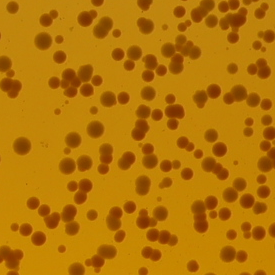
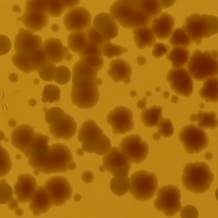
Four plates, easy to hard, same order for everyone, each a region sized for a 15-minute test
1 study_04 easy synthetic (40 colonies); 2 study_05 medium real (Double_P2V2_6Days_Low_RepA window);
3 study_03 hard synthetic (a dense region: about 80 colonies, groups of 2 to 4, three masses of 5 to
7); 4 study_06 hard real (Wild_Type_P2V2_6Days_Low_RepA window).

Claude-Session: https://claude.ai/code/session_01BQ2s7TtVwW3L99hJpFSM7p

diff --git a/index.html b/index.html
@@ -28,7 +28,7 @@
       <h1>Before you start</h1>
       <p class="lead">This study tests whether different people measure the same colonies the same way with
         QuantaColony. It starts with a guided practice plate that trains you until your outlines pass a check;
-        the three study plates after it take about 15 minutes. Your
+        the four study plates after it take about 15 minutes. Your
         measurements, how long each step took and these answers are sent automatically at the end.</p>
       <label class="field" for="name">Your name</label>
       <input id="name" type="text" autocomplete="off" placeholder="Any name that tells you apart from other participants">
@@ -154,11 +154,11 @@
   <section id="screen-review" class="page hidden">
     <div class="column wide">
       <h1>Check your plates</h1>
-      <p class="lead">These are your three plates as you finished them. Look at each one: every colony should have its
+      <p class="lead">These are your four plates as you finished them. Look at each one: every colony should have its
         own outline on its outer edge, with no outlines on anything else. Click a plate to see it larger. To change
         a plate, press Change this plate, correct it, then press Finish image to come back here.</p>
       <div id="review-grid"></div>
-      <label class="confirm"><input type="checkbox" id="review-ok"><span>I have checked all three plates, and I am satisfied
+      <label class="confirm"><input type="checkbox" id="review-ok"><span>I have checked all four plates, and I am satisfied
         with them.</span></label>
       <button id="btn-send" class="primary" disabled>Send my results</button>
     </div>
@@ -212,7 +212,7 @@
   <p>Your measurements, the time each step took and your answers on the first page are sent to Alejandro
     Navarro (University of California, Riverside). Your name only tells participants apart and does not
     appear in the paper.</p>
-  <p>After the training plate, the three study plates take about 15 minutes. The whole session takes longer, and
+  <p>After the training plate, the four study plates take about 15 minutes. The whole session takes longer, and
     it runs entirely in this browser tab.</p>
   <form method="dialog"><button class="primary">Close</button></form>
 </dialog>

diff --git a/app/main.js b/app/main.js
@@ -1,5 +1,5 @@
 // The study page: form, what to measure, the practice plate with its guide, the note before the scored
-// plates, three plates, the review of all three, sending the results.
+// plates, four plates, the review of all four, sending the results.
 // Colony Detection's decisions run in Python (quantacolony/study/web.py, through bridge.js). This file
 // shows screens, turns mouse gestures into the same tool calls the desktop tools make
 // (quantacolony/gui/tools.py), and sends the results file.

diff --git a/python/quantacolony/study/model.py b/python/quantacolony/study/model.py
@@ -101,6 +101,7 @@ class Bundle:
     plates: tuple[BundlePlate, ...]
     target: Target | None
     concepts: tuple[Concept, ...]
+    order: tuple = ()                             # the scored plates' fixed order (empty: a random order per participant)
     marks: dict = field(default_factory=dict)     # name -> Target: the places the guide rings on the practice
                                                   # plate (colony_ids empty for objects that are not colonies)
 
@@ -140,15 +141,15 @@ def load_bundle(folder: Path) -> Bundle:
     concepts = tuple(Concept(c["file"], c["title"], c["caption"]) for c in data.get("concepts", ()))
     marks = {name: Target(tuple(int(i) for i in m["colony_ids"]), tuple(map(float, m["center"])), float(m["radius"]))
              for name, m in data.get("marks", {}).items()}
-    return Bundle(Path(folder), int(data["version"]), plates, target, concepts, marks)
+    return Bundle(Path(folder), int(data["version"]), plates, target, concepts, tuple(data.get("order", ())), marks)
 
 
 def manifest(version: int, plates: list[BundlePlate], target: Target | None, concepts: list[Concept],
-             marks: dict | None = None) -> dict:
+             marks: dict | None = None, order=()) -> dict:
     """The manifest.json content for a bundle (written by tools/study/build_bundle.py)."""
     return {"version": version, "plates": [asdict(p) for p in plates],
             "target": asdict(target) if target else None, "concepts": [asdict(c) for c in concepts],
-            "marks": {name: asdict(m) for name, m in (marks or {}).items()}}
+            "marks": {name: asdict(m) for name, m in (marks or {}).items()}, "order": list(order)}
 
 
 # ======================================================================================
@@ -197,7 +198,7 @@ START_NOTE = (
     "Skip masses of five or more colonies that you cannot tell apart.",
     "Watch for false detections: delete any outline on something that is not a colony (plate numbers, bubbles, "
     "condensation, dust), or that covers more than one colony.",
-    "The three plates take about 15 minutes from here. Take the time to measure them carefully.",
+    "The four plates take about 15 minutes from here. Take the time to measure them carefully.",
 )
 
 STEPS = (
@@ -232,7 +233,7 @@ STEPS = (
          "Give each of the three colonies in the ring its own outline.", "ring",
          lambda f: f.target_resolved),
     Step("finish", "Finish the plate",
-         "Finish image saves the plate and opens the next one. After the practice plate, three plates follow. "
+         "Finish image saves the plate and opens the next one. After the practice plate, four plates follow, from easiest to hardest. "
          "Work on each until its outlines match its colonies, then press Finish image.",
          "Press Finish image to start the study.", "finish", lambda f: f.practice_saved),
 )

diff --git a/python/quantacolony/study/__init__.py b/python/quantacolony/study/__init__.py
@@ -2,7 +2,7 @@
 
 The study asks whether measurements made with Colony Detection replicate across users. Each participant
 fills in a short form, reads what to measure, practices on a plate with a guided tutorial, then measures
-three plates (two synthetic with known truth, one real) in a random order. Benchmark recording
+four plates (two synthetic with known truth, two real), from easiest to hardest, in the same order for everyone. Benchmark recording
 (core/benchmark.py) keeps every action with its time. The session ends with one zip file holding the
 participant's project and participant.json, to send back.
 

diff --git a/python/quantacolony/study/web.py b/python/quantacolony/study/web.py
@@ -106,7 +106,7 @@ class WebStudy:
         problems = self.participant.problems()
         if problems:
             return {"ok": False, "problems": problems}
-        order = sm.presentation_order([p.name for p in self.bundle.scored], int(seed))
+        order = list(self.bundle.order) or sm.presentation_order([p.name for p in self.bundle.scored], int(seed))
         self.manager = sp.open_manager(sp.work_folder(self.work))
         sp.create_project(self.manager, self.bundle, self.participant, order, int(seed))
         self.order = order
